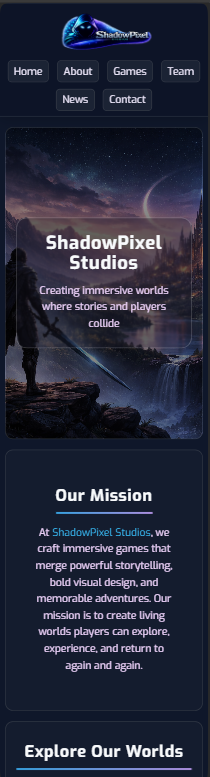
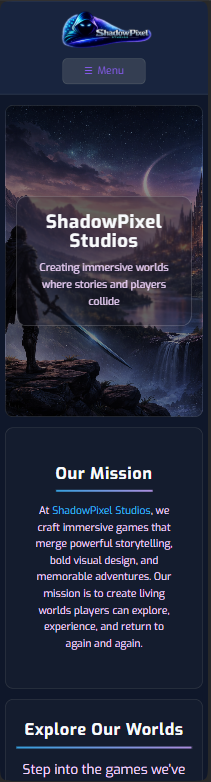
docs: update README and clean up documentation assets

diff --git a/README.md b/README.md
@@ -5,16 +5,17 @@
 <h1 align="center">🎮 ShadowPixel Studios</h1>
 
 <p align="center">
-A fictional game studio website designed and developed <b>from scratch</b> as a front-end portfolio project.
+A fictional game studio website designed and developed <b>from scratch</b> as a modern front-end portfolio project.
 </p>
 
 <p align="center">
   <img src="https://img.shields.io/badge/HTML5-Structure-E34F26?logo=html5&logoColor=white">
   <img src="https://img.shields.io/badge/CSS3-Styling-1572B6?logo=css3&logoColor=white">
-  <img src="https://img.shields.io/badge/Flexbox-Layout-blue">
+  <img src="https://img.shields.io/badge/JavaScript-Interactivity-F7DF1E?logo=javascript&logoColor=black">
   <img src="https://img.shields.io/badge/Responsive-Design-38bdf8">
+  <img src="https://img.shields.io/badge/Accessibility-ARIA-purple">
   <img src="https://img.shields.io/badge/GitHub-Project-181717?logo=github">
-  <img src="https://img.shields.io/badge/Status-Portfolio%20Project-purple">
+  <img src="https://img.shields.io/badge/Status-Active%20Development-success">
 </p>
 
 <p align="center">
@@ -35,6 +36,7 @@ A fictional game studio website designed and developed <b>from scratch</b> as a 
 - [📖 About the Project](#-about-the-project)
 - [🌐 Live Demo](#-live-demo)
 - [✨ Features](#-features)
+- [⚙ JavaScript Features](#-javascript-features)
 - [🛠 Built With](#-built-with)
 - [📸 Screenshots](#-screenshots)
 - [📂 Project Structure](#-project-structure)
@@ -49,18 +51,19 @@ A fictional game studio website designed and developed <b>from scratch</b> as a 
 
 ## 📖 About the Project
 
-**ShadowPixel Studios** is a fictional indie game studio website created as a **front-end portfolio project**.
+**ShadowPixel Studios** is a fictional indie game studio website built as a **front-end portfolio project**.
 
-The goal of this project was to design and develop a complete website from scratch that simulates the online presence of a game development studio.
+The goal was to simulate a **real-world production website**, combining design, structure, and interactivity.
 
-The website includes several sections commonly found on studio websites such as:
+The website includes:
 
-- studio mission
-- featured games
-- team members
-- news updates
+- studio presentation
+- game showcases
+- interactive modals
+- news system
+- responsive navigation
 
-This project focuses on practicing modern **front-end development techniques**, including semantic HTML structure, responsive layouts, and clean project organization.
+This project evolved from a static layout into a **fully interactive front-end experience using JavaScript**.
 
 ---
 
@@ -70,20 +73,52 @@ You can explore the live version of the website here:
 
 👉 https://amirabenameur3.github.io/ShadowPixel_Studios/
 
-The website is deployed using **GitHub Pages**.
+Deployed with **GitHub Pages**
 
 ---
 
 ## ✨ Features
 
-- 🎮 **Hero section** introducing the studio
-- 📖 **Mission / About section** presenting the studio vision
-- 🕹 **Games showcase section**
-- 👥 **Team presentation section**
-- 📰 **News and updates section**
-- 📱 **Responsive design** for multiple screen sizes
-- 🎨 Modern styling using **CSS variables**
-- ⚡ Lightweight **static website structure**
+- 🎮 Hero section with strong visual identity  
+- 📖 About / Mission section  
+- 🕹 Games showcase with interactive cards  
+- 📰 News section linked to game content  
+- 👥 Team section  
+- 🎨 Modern UI (glassmorphism, gradients, shadows)  
+- 📱 Fully responsive layout  
+- ⚡ Smooth animations and transitions 
+
+---
+
+## ⚙ JavaScript Features
+
+This project now includes **custom JavaScript functionality**:
+
+### 📱 Mobile Navigation
+- Toggle menu (open/close)
+- Click outside to close
+- ESC key support
+- Dynamic icon switching (☰ / ✖)
+- `aria-expanded` accessibility support
+
+### 🪟 Modal System (Core Feature)
+- Reusable modal logic for multiple games
+- Open/close with buttons
+- Close on:
+  - outside click
+  - ESC key
+- Focus management for accessibility
+- Prevent background interaction
+
+### 🎯 Scroll Reveal Animation
+- Elements animate into view on scroll
+- Uses `IntersectionObserver`
+- Smooth fade + translate effect
+
+### ♿ Accessibility Enhancements
+- Focus trapping inside modals
+- Keyboard navigation support
+- Semantic roles and ARIA attributes
 
 ---
 
@@ -93,12 +128,11 @@ This project was developed using:
 
 - **HTML5**
 - **CSS3**
-- **Flexbox**
-- **CSS Grid**
-- **Responsive Design**
+- **Flexbox & Grid**
+- **JavaScript (Vanilla)**
 - **Google Fonts**
-- **Git**
-- **GitHub**
+- **Git & GitHub**
+- **GitHub Pages**
 
 ---
 
@@ -115,13 +149,7 @@ This project was developed using:
 ### Home Page
 
 <p align="center">
-  <img src="./docs/ShadowPixel_Studios_Preview.png" width="850" alt="Home Page Screenshot">
-</p>
-
-### Mission Section
-
-<p align="center">
-  <img src="./docs/mission.png" width="850" alt="Mission Section Screenshot">
+  <img src="./docs/ShadowPixel-Studios-Preview.png" width="850" alt="Home Page Screenshot">
 </p>
 
 ### Games Section
@@ -130,16 +158,10 @@ This project was developed using:
   <img src="./docs/games.png" width="850" alt="Games Section Screenshot">
 </p>
 
-### Team Section
+### Modal Section
 
 <p align="center">
-  <img src="./docs/team.png" width="850" alt="Team Section Screenshot">
-</p>
-
-### News Section
-
-<p align="center">
-  <img src="./docs/news.png" width="850" alt="News Section Screenshot">
+  <img src="./docs/modal.png" width="850" alt="Team Section Screenshot">
 </p>
 
 ### Mobile Layout
@@ -153,15 +175,15 @@ This project was developed using:
 ## 📂 Project Structure
 
 ```
-PixelShadows_Studios
+ShadowPixel_Studios
 │
 ├── docs
+│   ├── ShadowPixel_Studios_Preview.png
 │   ├── demo.gif
 │   ├── games.png
 │   ├── mission.png
 │   ├── mobile.png
 │   ├── news.png
-│   ├── ShadowPixel_Studios.png
 │   └── team.png
 │
 ├── resources
@@ -172,8 +194,12 @@ PixelShadows_Studios
 │   ├── team
 │   └── videos
 │
-├── favicon_shadowpixel.ico
 ├── index.html
+├── press-kit.html
+├── privacy.html
+├── terms.html
+├── main.js
+├── favicon_shadowpixel.ico
 └── README.md
 ```
 
@@ -181,88 +207,67 @@ PixelShadows_Studios
 
 ## 📱 Responsive Design
 
-The website was designed to adapt to different screen sizes using responsive design techniques.
-
-Main strategies used:
-
-- **Flexible layouts** built with Flexbox
-- **Relative units** such as `rem`, `%`, and `vw`
-- **Media queries** to adjust layout for smaller screens
-- Responsive images and scalable typography
-
-The layout automatically adapts for:
-
-- Desktop screens
-- Tablets
-- Mobile devices
+- Mobile-first improvements
+- Flexible layouts (Flexbox & Grid)
+- Media queries for breakpoints
+- Scalable typography (`clamp`, `rem`)
+- Optimized images and spacing
 
 ---
 
 ## 🚀 Deployment
 
-The project is deployed using **GitHub Pages**.
+Deployed using **GitHub Pages**
 
-Steps used to deploy the website:
+Steps:
 
-1. Push the project to a GitHub repository
-2. Open the repository **Settings**
-3. Navigate to **Pages**
-4. Select the deployment branch (usually `main`)
-5. GitHub automatically publishes the website
-
-Live website:
-
-https://amirabenameur3.github.io/ShadowPixel_Studios/
+1. Push to GitHub
+2. Go to **Settings → Pages**
+3. Select branch (`main`)
+4. Website is automatically published
 
 ---
 
 ## 🧠 What I Learned
 
-Through this project I improved my understanding of:
-
-- building a website **entirely from scratch**
-- structuring content using **semantic HTML**
-- designing layouts with **Flexbox**
-- implementing **responsive design techniques**
-- organizing a **real-world project folder structure**
-- managing version control with **Git and GitHub**
-- deploying a website using **GitHub Pages**
+- Structuring a **real-world front-end project**
+- Writing **clean and modular JavaScript**
+- Building a **reusable modal system**
+- Implementing **accessibility best practices**
+- Managing **UI state and interactions**
+- Using **Git branches and version control**
+- Debugging real UI/UX issues
 
 ---
 
 ## 🚧 Future Improvements
 
-Possible future enhancements include:
-
-- adding **JavaScript interactivity**
-- implementing a **mobile hamburger navigation menu**
-- adding **animations and transitions**
-- embedding **game trailers or promotional videos**
-- creating a **contact form**
-- improving **accessibility and keyboard navigation**
+- Add **dynamic content (API integration)**
+- Improve **animations with GSAP or Framer Motion**
+- Add **dark/light theme toggle**
+- Create a **contact form with validation**
+- Enhance **performance optimization**
+- Expand into a **React version**
 
 ---
 
 ## 👩💻 Author
 
-**Amira Ben Ameur**
-
+**Amira Ben Ameur**  
 PhD Researcher in Structural & Transportation Engineering  
-Front-End Development Enthusiast
+Front-End Developer (in progress 🚀)
 
-GitHub  
+GitHub:  
 https://github.com/amirabenameur3
 
 ---
 
 ## 📌 Disclaimer
 
-This website represents a **fictional game studio** created for **learning and portfolio purposes**.
-
-It does **not represent a real company or brand**.
+This project represents a **fictional game studio** created for **portfolio and learning purposes only**.
 
 ---
 
 ## ⭐ If you like the project
 
-Consider giving the repository a **star on GitHub** ⭐
+Consider giving it a **star on GitHub** ⭐
